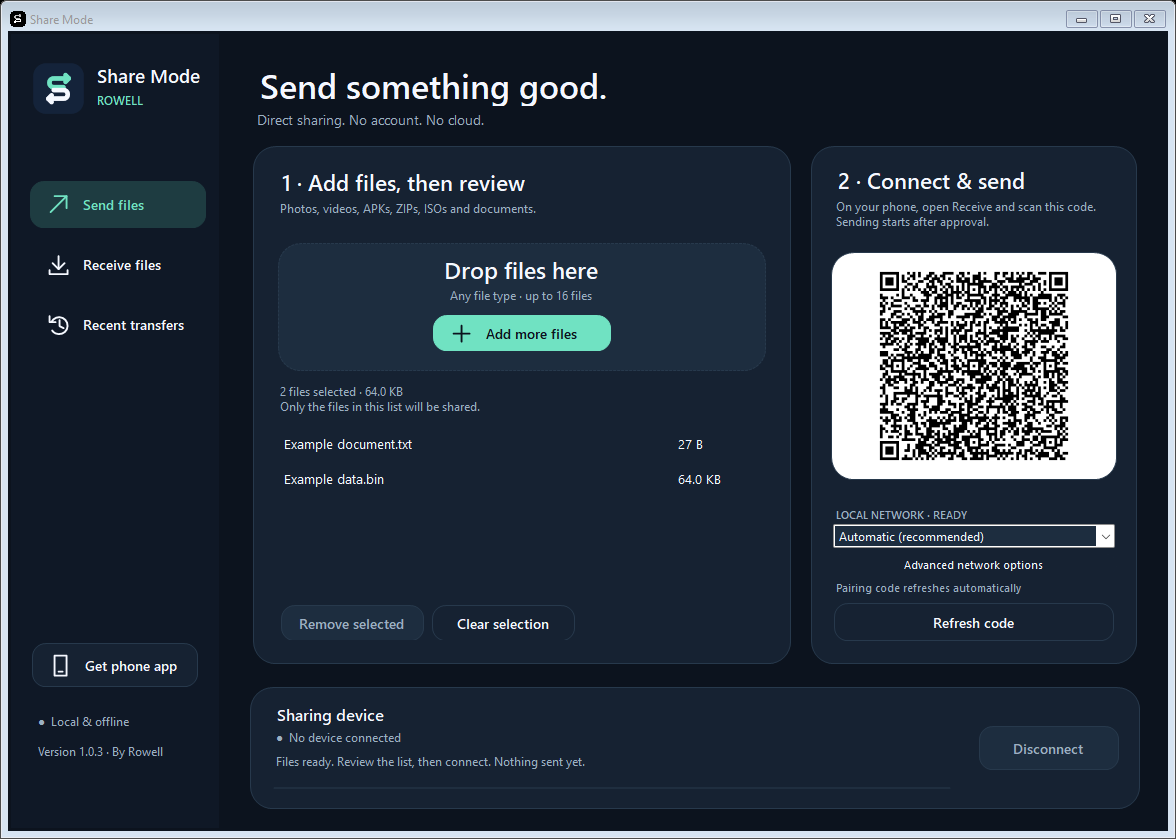
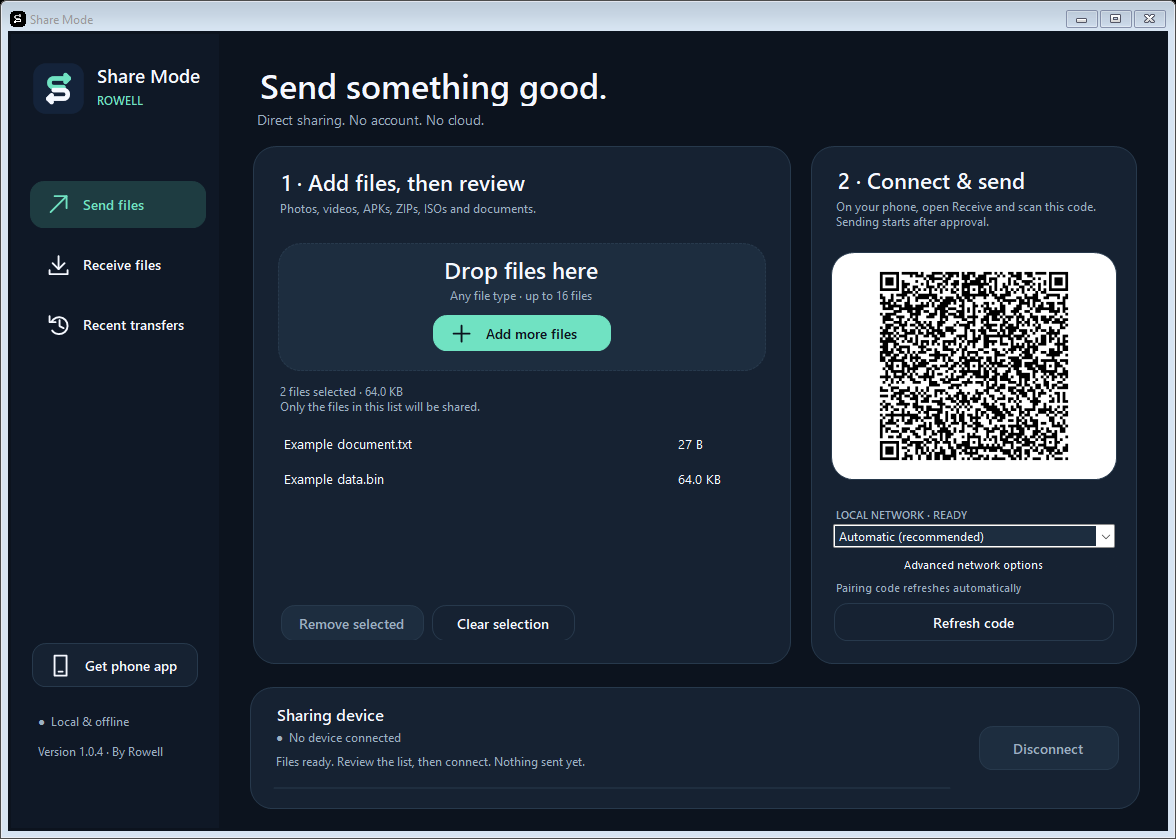
Fix Android receiver TLS key authorization in Share Mode 1.0.4

Changed region(s): [[0.7347, 0.3099, 0.9184, 0.5578]]

diff --git a/android/app/src/main/java/com/rowell/shareme/Transport.kt b/android/app/src/main/java/com/rowell/shareme/Transport.kt
@@ -19,6 +19,7 @@ import javax.net.ssl.*
 import javax.security.auth.x500.X500Principal
 
 class Transport(private val context:Context) : Closeable {
+    private val tlsAlias="shareme-tls-v2"
     private val executor=Executors.newFixedThreadPool(3)
     private val connections=Collections.synchronizedSet(mutableSetOf<Socket>())
     private val store=ReceiveStore(context)
@@ -36,10 +37,13 @@ class Transport(private val context:Context) : Closeable {
     private val identity:KeyStore by lazy {
         KeyStore.getInstance("AndroidKeyStore").apply {
             load(null)
-            if(!containsAlias("shareme-tls"))KeyPairGenerator.getInstance(KeyProperties.KEY_ALGORITHM_RSA,"AndroidKeyStore").apply {
-                initialize(KeyGenParameterSpec.Builder("shareme-tls",KeyProperties.PURPOSE_SIGN or KeyProperties.PURPOSE_VERIFY)
-                    .setKeySize(2048).setDigests(KeyProperties.DIGEST_SHA256,KeyProperties.DIGEST_SHA512)
-                    .setSignaturePaddings(KeyProperties.SIGNATURE_PADDING_RSA_PKCS1)
+            // Conscrypt hashes/pads TLS signatures itself, then asks AndroidKeyStore for
+            // the raw RSA operation. The old alias lacks these immutable authorizations.
+            if(!containsAlias(tlsAlias))KeyPairGenerator.getInstance(KeyProperties.KEY_ALGORITHM_RSA,"AndroidKeyStore").apply {
+                initialize(KeyGenParameterSpec.Builder(tlsAlias,KeyProperties.PURPOSE_SIGN or KeyProperties.PURPOSE_VERIFY)
+                    .setKeySize(2048).setDigests(KeyProperties.DIGEST_NONE,KeyProperties.DIGEST_SHA256,KeyProperties.DIGEST_SHA384,KeyProperties.DIGEST_SHA512)
+                    .setSignaturePaddings(KeyProperties.SIGNATURE_PADDING_RSA_PKCS1,KeyProperties.SIGNATURE_PADDING_RSA_PSS)
+                    .setEncryptionPaddings(KeyProperties.ENCRYPTION_PADDING_NONE)
                     .setCertificateSubject(X500Principal("CN=Share Mode"))
                     .setCertificateSerialNumber(BigInteger(64,SecureRandom()).add(BigInteger.ONE))
                     .setCertificateNotBefore(Date(System.currentTimeMillis()-86400000))
@@ -54,13 +58,15 @@ class Transport(private val context:Context) : Closeable {
         require(hosts.isNotEmpty()) {"Connect to Wi-Fi or create a hotspot first."}
         sources=files
         val managers=KeyManagerFactory.getInstance(KeyManagerFactory.getDefaultAlgorithm()).apply{init(identity,null)}
-        val ssl=SSLContext.getInstance("TLS").apply{init(managers.keyManagers,null,SecureRandom())}
+        // Pin selection to the migrated identity; the old alias can remain in the store.
+        val selected=managers.keyManagers.map{if(it is X509KeyManager)ServerAliasKeyManager(it,tlsAlias)else it}.toTypedArray()
+        val ssl=SSLContext.getInstance("TLS").apply{init(selected,null,SecureRandom())}
         val server=ssl.serverSocketFactory.createServerSocket(0) as SSLServerSocket
         server.enabledProtocols=arrayOf("TLSv1.2")
         // The AndroidKeyStore identity can sign, but cannot perform static RSA key exchange.
         server.enabledCipherSuites=server.enabledCipherSuites.filter{it.startsWith("TLS_ECDHE_RSA_")}.toTypedArray()
         synchronized(guard){if(stopped){server.close();return};listener=server}
-        val fp=hex(MessageDigest.getInstance("SHA-256").digest(identity.getCertificate("shareme-tls").encoded))
+        val fp=hex(MessageDigest.getInstance("SHA-256").digest(identity.getCertificate(tlsAlias).encoded))
         val secret=ByteArray(32).also{SecureRandom().nextBytes(it)}
         val pair=Pairing(hosts,server.localPort,fp,Base64.getUrlEncoder().withoutPadding().encodeToString(secret),mode,Model.deviceName,Model.value.ssid,Model.value.password)
         session=pair;expires=System.currentTimeMillis()+10*60*1000

diff --git a/android/app/src/test/java/com/rowell/shareme/ServerAliasKeyManagerTest.kt b/android/app/src/test/java/com/rowell/shareme/ServerAliasKeyManagerTest.kt
@@ -1,0 +1,46 @@
+package com.rowell.shareme
+
+import org.junit.Assert.*
+import org.junit.Test
+import java.net.Socket
+import java.security.Principal
+import java.security.PrivateKey
+import java.security.cert.X509Certificate
+import javax.net.ssl.X509KeyManager
+
+class ServerAliasKeyManagerTest{
+    private val migrated="shareme-tls-v2"
+    private val key=object:PrivateKey{
+        override fun getAlgorithm()="RSA"
+        override fun getFormat():String?=null
+        override fun getEncoded():ByteArray?=null // Android's private key is non-exportable.
+    }
+    private fun manager(aliases:Array<String> = arrayOf("shareme-tls",migrated))=ServerAliasKeyManager(object:X509KeyManager{
+        override fun getServerAliases(keyType:String?,issuers:Array<Principal>?)=if(keyType=="RSA")aliases else null
+        override fun chooseServerAlias(keyType:String?,issuers:Array<Principal>?,socket:Socket?)=aliases.firstOrNull()
+        override fun getCertificateChain(alias:String?)=emptyArray<X509Certificate>()
+        override fun getPrivateKey(alias:String?)=key
+        override fun getClientAliases(keyType:String?,issuers:Array<Principal>?)=aliases
+        override fun chooseClientAlias(keyTypes:Array<String>?,issuers:Array<Principal>?,socket:Socket?)=aliases.firstOrNull()
+    },migrated)
+    @Test fun migratedIdentityWinsWhenDelegatePrefersTheOldKey(){
+        val manager=manager()
+        assertEquals(migrated,manager.chooseServerAlias("RSA",null,null))
+        assertEquals(migrated,manager.chooseEngineServerAlias("RSA",null,null))
+        assertArrayEquals(arrayOf(migrated),manager.getServerAliases("RSA",null))
+        assertSame(key,manager.getPrivateKey(migrated))
+    }
+    @Test fun oldAndUnrelatedKeysCannotBeReturnedToTls(){
+        val selected=manager()
+        assertNull(selected.getPrivateKey("shareme-tls"))
+        assertNull(selected.getCertificateChain("shareme-tls"))
+        assertNull(selected.chooseServerAlias("EC",null,null))
+        assertNull(manager(arrayOf("shareme-tls")).chooseServerAlias("RSA",null,null))
+    }
+    @Test fun serverIdentityIsNotOfferedForClientAuthentication(){
+        val manager=manager()
+        assertNull(manager.getClientAliases("RSA",null))
+        assertNull(manager.chooseClientAlias(arrayOf("RSA"),null,null))
+        assertNull(manager.chooseEngineClientAlias(arrayOf("RSA"),null,null))
+    }
+}

diff --git a/android/app/src/main/java/com/rowell/shareme/ServerAliasKeyManager.kt b/android/app/src/main/java/com/rowell/shareme/ServerAliasKeyManager.kt
@@ -1,0 +1,26 @@
+package com.rowell.shareme
+
+import java.net.Socket
+import java.security.Principal
+import java.security.PrivateKey
+import java.security.cert.X509Certificate
+import javax.net.ssl.SSLEngine
+import javax.net.ssl.X509ExtendedKeyManager
+import javax.net.ssl.X509KeyManager
+
+/** An old keystore entry must never win alias selection after the TLS key migration. */
+class ServerAliasKeyManager(private val delegate:X509KeyManager,private val selectedAlias:String):X509ExtendedKeyManager(){
+    override fun getServerAliases(keyType:String?,issuers:Array<Principal>?):Array<String>? =
+        delegate.getServerAliases(keyType,issuers)?.takeIf{selectedAlias in it}?.let{arrayOf(selectedAlias)}
+    override fun chooseServerAlias(keyType:String?,issuers:Array<Principal>?,socket:Socket?):String? =
+        getServerAliases(keyType,issuers)?.firstOrNull()
+    override fun chooseEngineServerAlias(keyType:String?,issuers:Array<Principal>?,engine:SSLEngine?):String? =
+        chooseServerAlias(keyType,issuers,null)
+    override fun getCertificateChain(alias:String?):Array<X509Certificate>? =
+        if(alias==selectedAlias)delegate.getCertificateChain(alias)else null
+    override fun getPrivateKey(alias:String?):PrivateKey? =
+        if(alias==selectedAlias)delegate.getPrivateKey(alias)else null
+    override fun getClientAliases(keyType:String?,issuers:Array<Principal>?):Array<String>? = null
+    override fun chooseClientAlias(keyTypes:Array<String>?,issuers:Array<Principal>?,socket:Socket?):String? = null
+    override fun chooseEngineClientAlias(keyTypes:Array<String>?,issuers:Array<Principal>?,engine:SSLEngine?):String? = null
+}

diff --git a/windows/Program.cs b/windows/Program.cs
@@ -87,7 +87,7 @@ namespace ShareMeRowell {
             int y=146;foreach(string item in new[]{"send","receive","history"}){string id=item;var button=ActionButton(id=="send"?"Send files":id=="receive"?"Receive files":"Recent transfers",false);button.Glyph=id;button.AlignLeft=true;button.SetBounds(18,y,178,49);button.BackColor=Palette.Sidebar;button.Ghost=true;button.Click+=(s,e)=>Navigate(id);side.Controls.Add(button);navigation[id]=button;y+=60;}
             var sideBottom=new Panel{Dock=DockStyle.Bottom,Height=166,BackColor=Palette.Sidebar};side.Controls.Add(sideBottom);
             var install=ActionButton("Get phone app",false);install.Glyph="phone";install.AlignLeft=true;install.BackColor=Palette.Sidebar;install.Dock=DockStyle.Top;install.Click+=(s,e)=>ShowInstaller();sideBottom.Controls.Add(install);
-            var local=Label("●  Local & offline\n\nVersion 1.0.3 · By Rowell",9,false,Palette.Muted,new Rectangle(4,72,176,80),Palette.Sidebar);sideBottom.Controls.Add(local);
+            var local=Label("●  Local & offline\n\nVersion 1.0.4 · By Rowell",9,false,Palette.Muted,new Rectangle(4,72,176,80),Palette.Sidebar);sideBottom.Controls.Add(local);
             var main=new TableLayoutPanel{Dock=DockStyle.Fill,ColumnCount=1,RowCount=3,Padding=new Padding(24,16,24,18)};main.RowStyles.Add(new RowStyle(SizeType.Absolute,92));main.RowStyles.Add(new RowStyle(SizeType.Percent,100));main.RowStyles.Add(new RowStyle(SizeType.Absolute,142));root.Controls.Add(main,1,0);
             var header=new Panel{Dock=DockStyle.Fill,BackColor=Palette.Page};title.SetBounds(0,9,700,44);title.Font=Palette.Font(25,true);title.ForeColor=Palette.Text;subtitle.SetBounds(1,57,720,28);subtitle.ForeColor=Palette.Muted;header.Controls.AddRange(new Control[]{title,subtitle});main.Controls.Add(header,0,0);
             cards.Dock=DockStyle.Fill;cards.ColumnCount=2;cards.ColumnStyles.Add(new ColumnStyle(SizeType.Percent,100));cards.ColumnStyles.Add(new ColumnStyle(SizeType.Absolute,328));main.Controls.Add(cards,0,1);

diff --git a/tests/DecodePairingQr.java b/tests/DecodePairingQr.java
@@ -1,0 +1,16 @@
+import com.google.zxing.*;
+import com.google.zxing.common.HybridBinarizer;
+import java.awt.image.BufferedImage;
+import java.io.File;
+import java.util.Map;
+import javax.imageio.ImageIO;
+
+/** Invoked with piped stdout: pairing contents must stay in the caller's memory. */
+public final class DecodePairingQr {
+    public static void main(String[] args) throws Exception {
+        BufferedImage image=ImageIO.read(new File(args[0]));
+        int width=image.getWidth(),height=image.getHeight();
+        BinaryBitmap bitmap=new BinaryBitmap(new HybridBinarizer(new RGBLuminanceSource(width,height,image.getRGB(0,0,width,height,null,0,width))));
+        System.out.print(new MultiFormatReader().decode(bitmap,Map.of(DecodeHintType.TRY_HARDER,true)).getText());
+    }
+}

diff --git a/windows/AssemblyInfo.cs b/windows/AssemblyInfo.cs
@@ -4,5 +4,5 @@ using System.Reflection;
 [assembly: AssemblyDescription("Local file sharing for Android and Windows")]
 [assembly: AssemblyCompany("Rowell")]
 [assembly: AssemblyCopyright("Copyright 2026 Rowell")]
-[assembly: AssemblyVersion("1.0.3.0")]
-[assembly: AssemblyFileVersion("1.0.3.0")]
+[assembly: AssemblyVersion("1.0.4.0")]
+[assembly: AssemblyFileVersion("1.0.4.0")]

diff --git a/docs/BUILD.md b/docs/BUILD.md
@@ -21,9 +21,9 @@ On a new machine, obtain a Windows JDK from [Eclipse Adoptium](https://adoptium.
 
 For another local toolchain, pass `-JavaDirectory`, `-SdkDirectory` and `-GradleDirectory` to the build; verification accepts the first two. Dependencies and project state stay in `.local/gradle-local` and `.local/android-project-cache`. The ignored `android/local.properties` points to the chosen SDK.
 
-The build runs JVM tests, assembles the optimized signed APK and runs release lint. Output: `dist/Share-Mode-1.0.3.apk`. Java's temporary socket directory is scoped to `.local/nio-temp` because this machine's normal temp directory rejects Java domain-socket connections. Process environment settings are restored afterward; Windows, network and Docker settings are unchanged.
+The build runs JVM tests, assembles the optimized signed APK and runs release lint. Output: `dist/Share-Mode-1.0.4.apk`. Java's temporary socket directory is scoped to `.local/nio-temp` because this machine's normal temp directory rejects Java domain-socket connections. Process environment settings are restored afterward; Windows, network and Docker settings are unchanged.
 
-The existing private `.local/signing/shareme.jks` and password file are required. The build does not replace or regenerate them. Verification checks package `com.rowell.shareme`, version code 4, version name 1.0.3, label Share Mode, Android 10 minimum and SDK 35 target, then compares the signer with the previous release's certificate in `.local/signing/certificate-sha256.txt`. This text is a public certificate fingerprint; the keystore and password remain private. Restore the original private backup if signing files are missing.
+The existing private `.local/signing/shareme.jks` and password file are required. The build does not replace or regenerate them. Verification checks package `com.rowell.shareme`, version code 4, version name 1.0.4, label Share Mode, Android 10 minimum and SDK 35 target, then compares the signer with the previous release's certificate in `.local/signing/certificate-sha256.txt`. This text is a public certificate fingerprint; the keystore and password remain private. Restore the original private backup if signing files are missing.
 
 ## Windows
 
@@ -46,4 +46,12 @@ The integration harness uses loopback servers and isolated dummy files. It check
 
 Packaging requires successful test, lint, signature and QR reports. It creates separate Android, Windows and complete ZIPs with one outer folder each, plus `SHA256SUMS.txt` and `VERSION.json`. `verify-packages.ps1` checks archive checksums, outer folders, matching APK bytes, and exclusion of old installers and private/development files. Windows includes the same Android APK as the standalone download. Signing keys and caches are excluded.
 
-The repository is still [Dling11/share-me-rowell](https://github.com/Dling11/share-me-rowell). Build and packaging commands do not commit, push or publish. The owner-authorized 1.0.3 release uses the Share-Mode filenames linked in README; earlier releases retain their old names.
+The 1.0.4 TLS hotfix also requires a successful real-phone listener report for the exact installed APK. With the updated app's Receive screen open, privately capture its QR under `.local/` and run:
+
+```text
+node tests/android-listener-check.mjs --serial <adb-device> --qr-image <private-screenshot> --apk dist/Share-Mode-1.0.4.apk --version 1.0.4 --version-code 5
+```
+
+Repeat with `--legacy-signature` to check RSA PKCS1/SHA256 compatibility. The check verifies installed APK bytes, the QR certificate fingerprint and rejection of an invalid pairing code. It sends no files and creates no transfer-history entry. QR contents remain in process memory; only the result is saved in ignored `.local/phone-verification/`. Do not publish the QR screenshot.
+
+The repository is still [Dling11/share-me-rowell](https://github.com/Dling11/share-me-rowell). Build and packaging commands do not commit, push or publish. The owner-authorized 1.0.4 release uses the Share-Mode filenames linked in README; earlier releases retain their old names.

diff --git a/docs/TESTING.md b/docs/TESTING.md
@@ -1,4 +1,4 @@
-# Share Mode 1.0.3 validation
+# Share Mode 1.0.4 validation
 
 ## Scope
 
@@ -19,7 +19,11 @@ These checks do not establish physical phone-to-phone compatibility or measured 
 
 ## Physical testing to complete
 
-Version 1.0.3 was installed as an in-place update from 1.0.1 on an Android 15 phone. The unchanged original install date, version code 4, successful native launch and actual Send-screen capture were verified. The signing certificate matches the previous release. This establishes installation and visible UI on that device; two-phone Wi-Fi/hotspot transfers remain pending.
+Version 1.0.3 was installed as an in-place update from 1.0.1 on an Android 15 phone. Native launch and the visible Send screen passed, but a subsequent PC-to-phone secure-listener check reproduced an AndroidKeyStore `INCOMPATIBLE_DIGEST` failure before pairing. This is a confirmed Android hosting defect, independent of Wi-Fi discovery or incoming file approval.
+
+Version 1.0.4 generates a separate, versioned TLS identity with the digest/padding authorizations required by Conscrypt, and explicitly selects that identity even while the old entry remains in AndroidKeyStore. The app installation signer and package are unchanged. The existing download/history paths remain. Fresh pairing codes carry the new TLS certificate fingerprint.
+
+The regression tests cover socket and engine alias selection with an old identity present, rejection of stale/unrelated aliases and absence of client authentication. Real-phone verification passed on the updated Android 15 device using both default TLS signature negotiation and RSA PKCS1/SHA256. Each check verified the exact installed APK bytes, migration to the new certificate, a TLS 1.2/ECDHE-RSA connection, the QR fingerprint, and rejection of an invalid pairing code. No files were sent or created. Two-phone Wi-Fi/hotspot file-transfer testing remains separate.
 
 The owner reports earlier phone-to-PC transfers and offline installer sharing work. The earlier phone-to-phone test failed on both Wi-Fi and hotspot; its exact failure stage has not yet been established.
 
@@ -47,5 +51,7 @@ The previous manifest omitted `CHANGE_NETWORK_STATE`, which is required by `Conn
 Hotspot QR addresses exclude the concurrent router. Cellular/VPN/virtual interfaces are not advertised as local phone endpoints. A matching subnet does not establish hotspot identity. Hotspot joining waits for an IPv4 address from `onLinkPropertiesChanged` and binds its client socket to that Network. Host startup waits for its hotspot interface instead of a fixed delay. Reachable QR alternatives are tried first; TLS negotiation has a separate timeout. Android's signing-only keystore identity is served using ECDHE-RSA cipher suites.
 
 Android documents the callback ordering race in [Read network state](https://developer.android.com/develop/connectivity/network-ops/reading-network-state). Permission requirements: [Use a local-only Wi-Fi hotspot](https://developer.android.com/develop/connectivity/wifi/localonlyhotspot).
+
+TLS key authorizations: [KeyGenParameterSpec.Builder](https://developer.android.com/reference/android/security/keystore/KeyGenParameterSpec.Builder). Conscrypt signs a digest/padded TLS message prepared by its TLS implementation; allowing that raw private-key operation does not remove TLS encryption or the QR certificate pin check.
 
 Network-request permission: [ConnectivityManager.requestNetwork](https://developer.android.com/reference/android/net/ConnectivityManager#requestNetwork(android.net.NetworkRequest,%20android.net.ConnectivityManager.NetworkCallback,%20android.os.Handler,%20int)).

diff --git a/README.md b/README.md
@@ -4,33 +4,33 @@ Local file sharing for **Android and Windows**, by Rowell. Send photos, videos, 
 
 Previously named Share-Me-Rowell. The source folder, repository URL, pairing format, Android package/signing identity and existing download/history locations are retained for compatibility.
 
-Android 10+ · Windows 10/11, 64-bit · **1.0.3 preview release**
+Android 10+ · Windows 10/11, 64-bit · **1.0.4 preview release**
 
 ## Downloads
 
-Download Share Mode 1.0.3:
+Download Share Mode 1.0.4:
 
-- [Android APK](https://github.com/Dling11/share-me-rowell/releases/download/v1.0.3/Share-Mode-1.0.3.apk)
-- [Android ZIP with instructions](https://github.com/Dling11/share-me-rowell/releases/download/v1.0.3/Share-Mode-Android-1.0.3.zip)
-- [Windows portable ZIP](https://github.com/Dling11/share-me-rowell/releases/download/v1.0.3/Share-Mode-Windows-1.0.3.zip)
-- [Complete package](https://github.com/Dling11/share-me-rowell/releases/download/v1.0.3/Share-Mode-Complete-1.0.3.zip)
-- [Checksums](https://github.com/Dling11/share-me-rowell/releases/download/v1.0.3/SHA256SUMS.txt) and [validation metadata](https://github.com/Dling11/share-me-rowell/releases/download/v1.0.3/VERSION.json)
+- [Android APK](https://github.com/Dling11/share-me-rowell/releases/download/v1.0.4/Share-Mode-1.0.4.apk)
+- [Android ZIP with instructions](https://github.com/Dling11/share-me-rowell/releases/download/v1.0.4/Share-Mode-Android-1.0.4.zip)
+- [Windows portable ZIP](https://github.com/Dling11/share-me-rowell/releases/download/v1.0.4/Share-Mode-Windows-1.0.4.zip)
+- [Complete package](https://github.com/Dling11/share-me-rowell/releases/download/v1.0.4/Share-Mode-Complete-1.0.4.zip)
+- [Checksums](https://github.com/Dling11/share-me-rowell/releases/download/v1.0.4/SHA256SUMS.txt) and [validation metadata](https://github.com/Dling11/share-me-rowell/releases/download/v1.0.4/VERSION.json)
 
-The [previous public 1.0.2 release](https://github.com/Dling11/share-me-rowell/releases/tag/v1.0.2) still uses the old name and does not contain the 1.0.3 changes. GitHub's Source code ZIP is for development, not installation.
+Version 1.0.4 fixes an Android receiver TLS-key authorization failure reproduced on a real phone in 1.0.3. Earlier releases remain available under [all releases](https://github.com/Dling11/share-me-rowell/releases). GitHub's Source code ZIP is for development, not installation.
 
 Each download ZIP has one outer folder. The Windows ZIP includes the same Android APK for its local download QR. Keep `QRCoder.dll` beside `Share-Mode.exe`.
 
 ## Screenshots
 
-The Android Send screen, captured from the installed 1.0.3 app:
+The Android Send layout, unchanged by the TLS hotfix:
 
-<img src="assets/android-send.png" alt="Share Mode 1.0.3 on Android, with Choose files and Send, Receive and Recent tabs" width="320">
+<img src="assets/android-send.png" alt="Share Mode on Android, with Choose files and Send, Receive and Recent tabs" width="320">
 
 The Windows app and selected-file review:
 
-![Share Mode 1.0.3 on Windows](assets/windows-dark.png)
+![Share Mode 1.0.4 on Windows](assets/windows-dark.png)
 
-![Selected files in Share Mode 1.0.3](assets/windows-selection.png)
+![Selected files in Share Mode 1.0.4](assets/windows-selection.png)
 
 Windows screenshots use example files and an isolated loopback pairing session. Their QR codes do not connect to a real sharing device.
 

diff --git a/docs/PROTOCOL.md b/docs/PROTOCOL.md
@@ -6,6 +6,8 @@ The QR is `shareme-rowell://pair/<base64url-json>`. JSON fields: `v=1`, `hosts` 
 
 Share Mode 1.0.3 retains this scheme/version for compatibility. Android advertises LAN interfaces instead of cellular/VPN addresses. App-created hotspot codes include only the hotspot endpoints. The joining client requests the named SSID even when another Wi-Fi uses the same subnet, waits for IPv4 link properties and uses that Network's socket factory. TCP connection and TLS negotiation have separate bounded timeouts before approval/transfer waits. Idle listener codes refresh when local addresses change.
 
+Version 1.0.4 uses the `shareme-tls-v2` AndroidKeyStore alias, authorizing the raw RSA signing operation used internally by Conscrypt. A server-only key-manager wrapper selects only this alias for both socket and engine handshakes, so the old incompatible alias cannot be chosen after an upgrade. TLS remains restricted to 1.2/ECDHE-RSA and the QR still pins the exact certificate. The application installation certificate and wire protocol are unchanged.
+
 Control frames are UTF-8 JSON followed by LF, at most 65,536 bytes. No text reader may buffer past LF into a binary payload. File metadata: `id`, sanitized `name`, `size` (64-bit integer, 0 through 1 TB), `sha256`. A batch has 1–16 files with unique IDs. Paths, file URIs and local source filenames beyond the display name never travel in an offer.
 
 Push: client sends `{v:1, op:"push", code, name, files:[...]}`. Receive host checks/approves, then responds `{ok:true, offsets:[...]}`. Pull: client sends `{v:1, op:"pull", code, name}` to a send host. After host approval, it responds `{ok:true, sender, files:[...]}`; the client receiver approves and responds with offsets.
